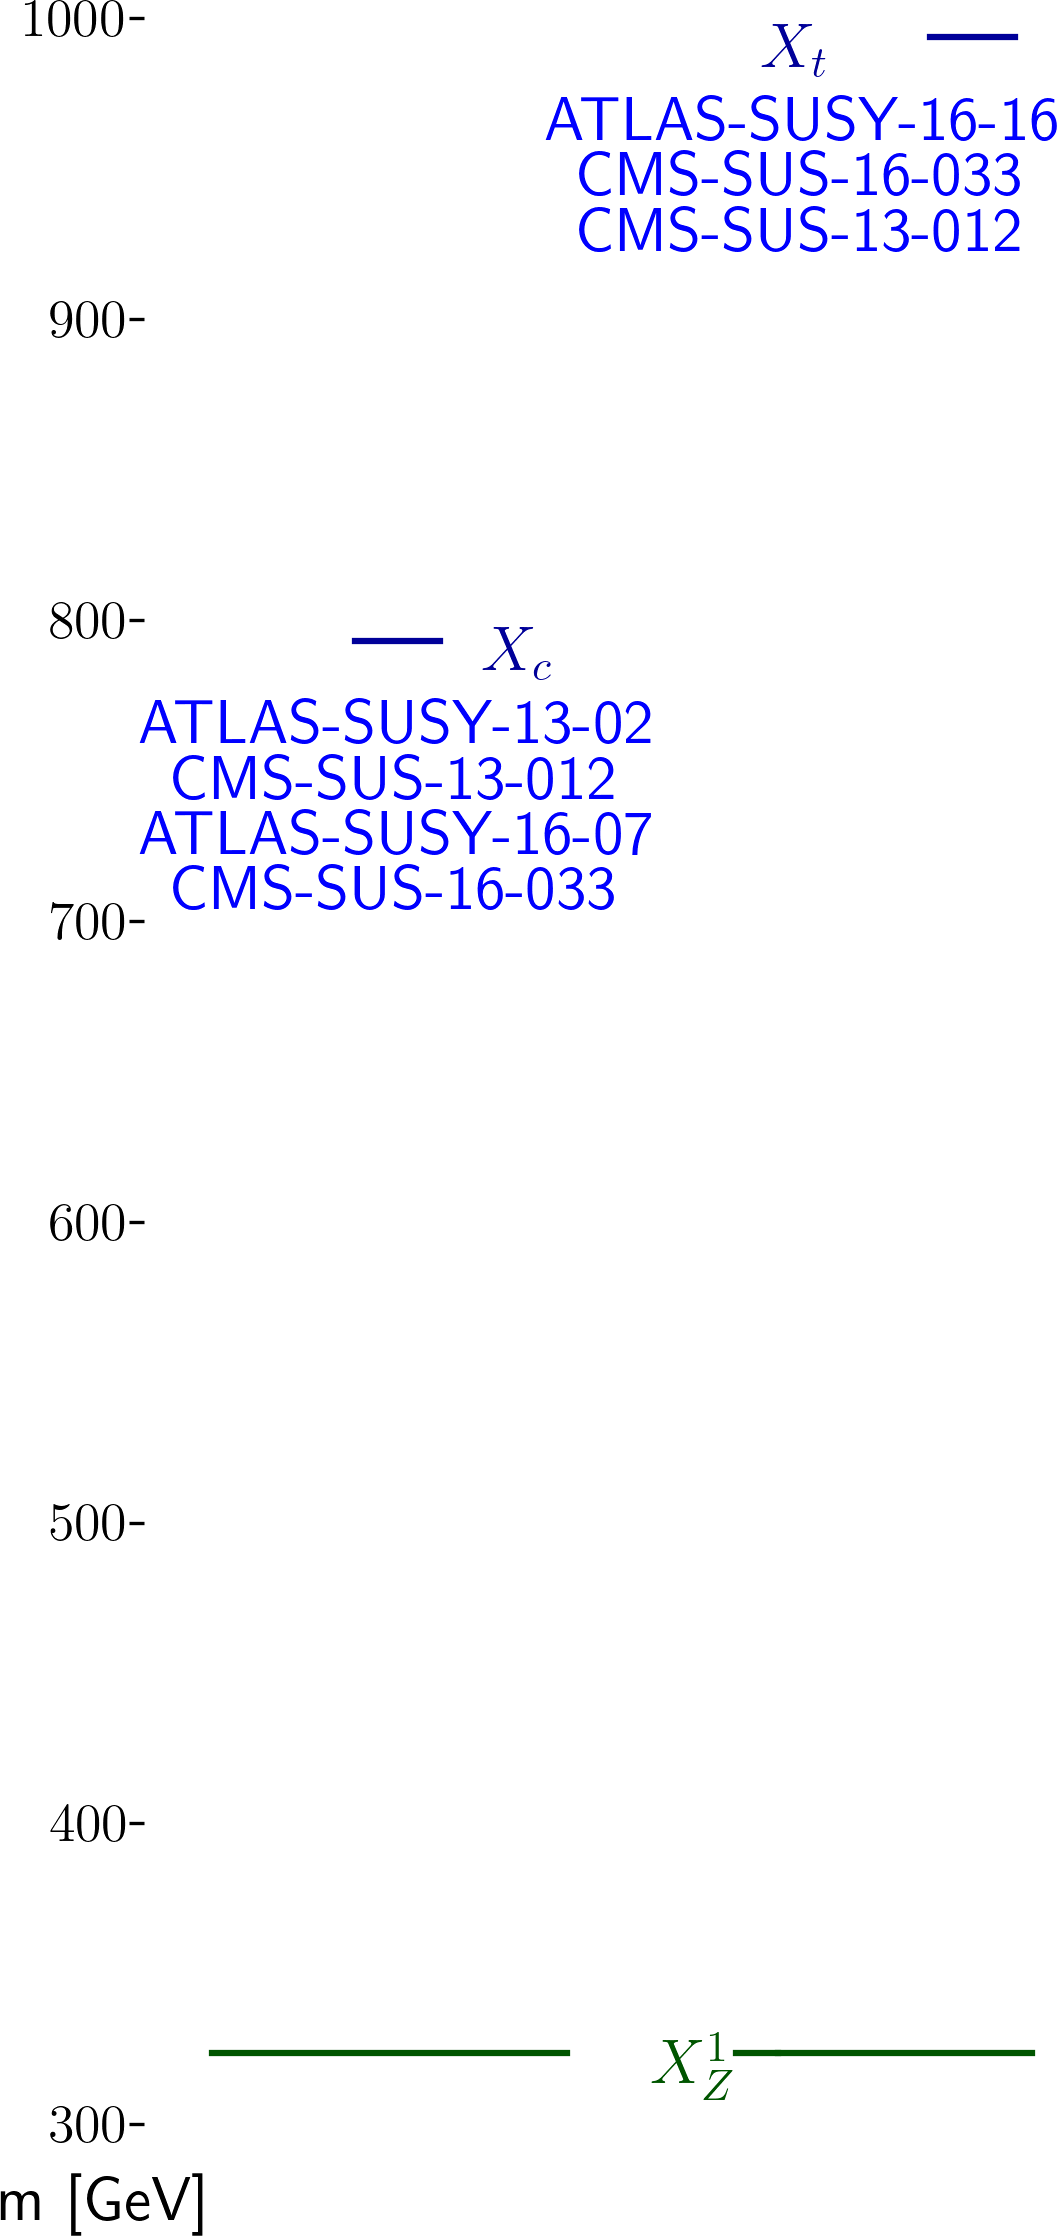
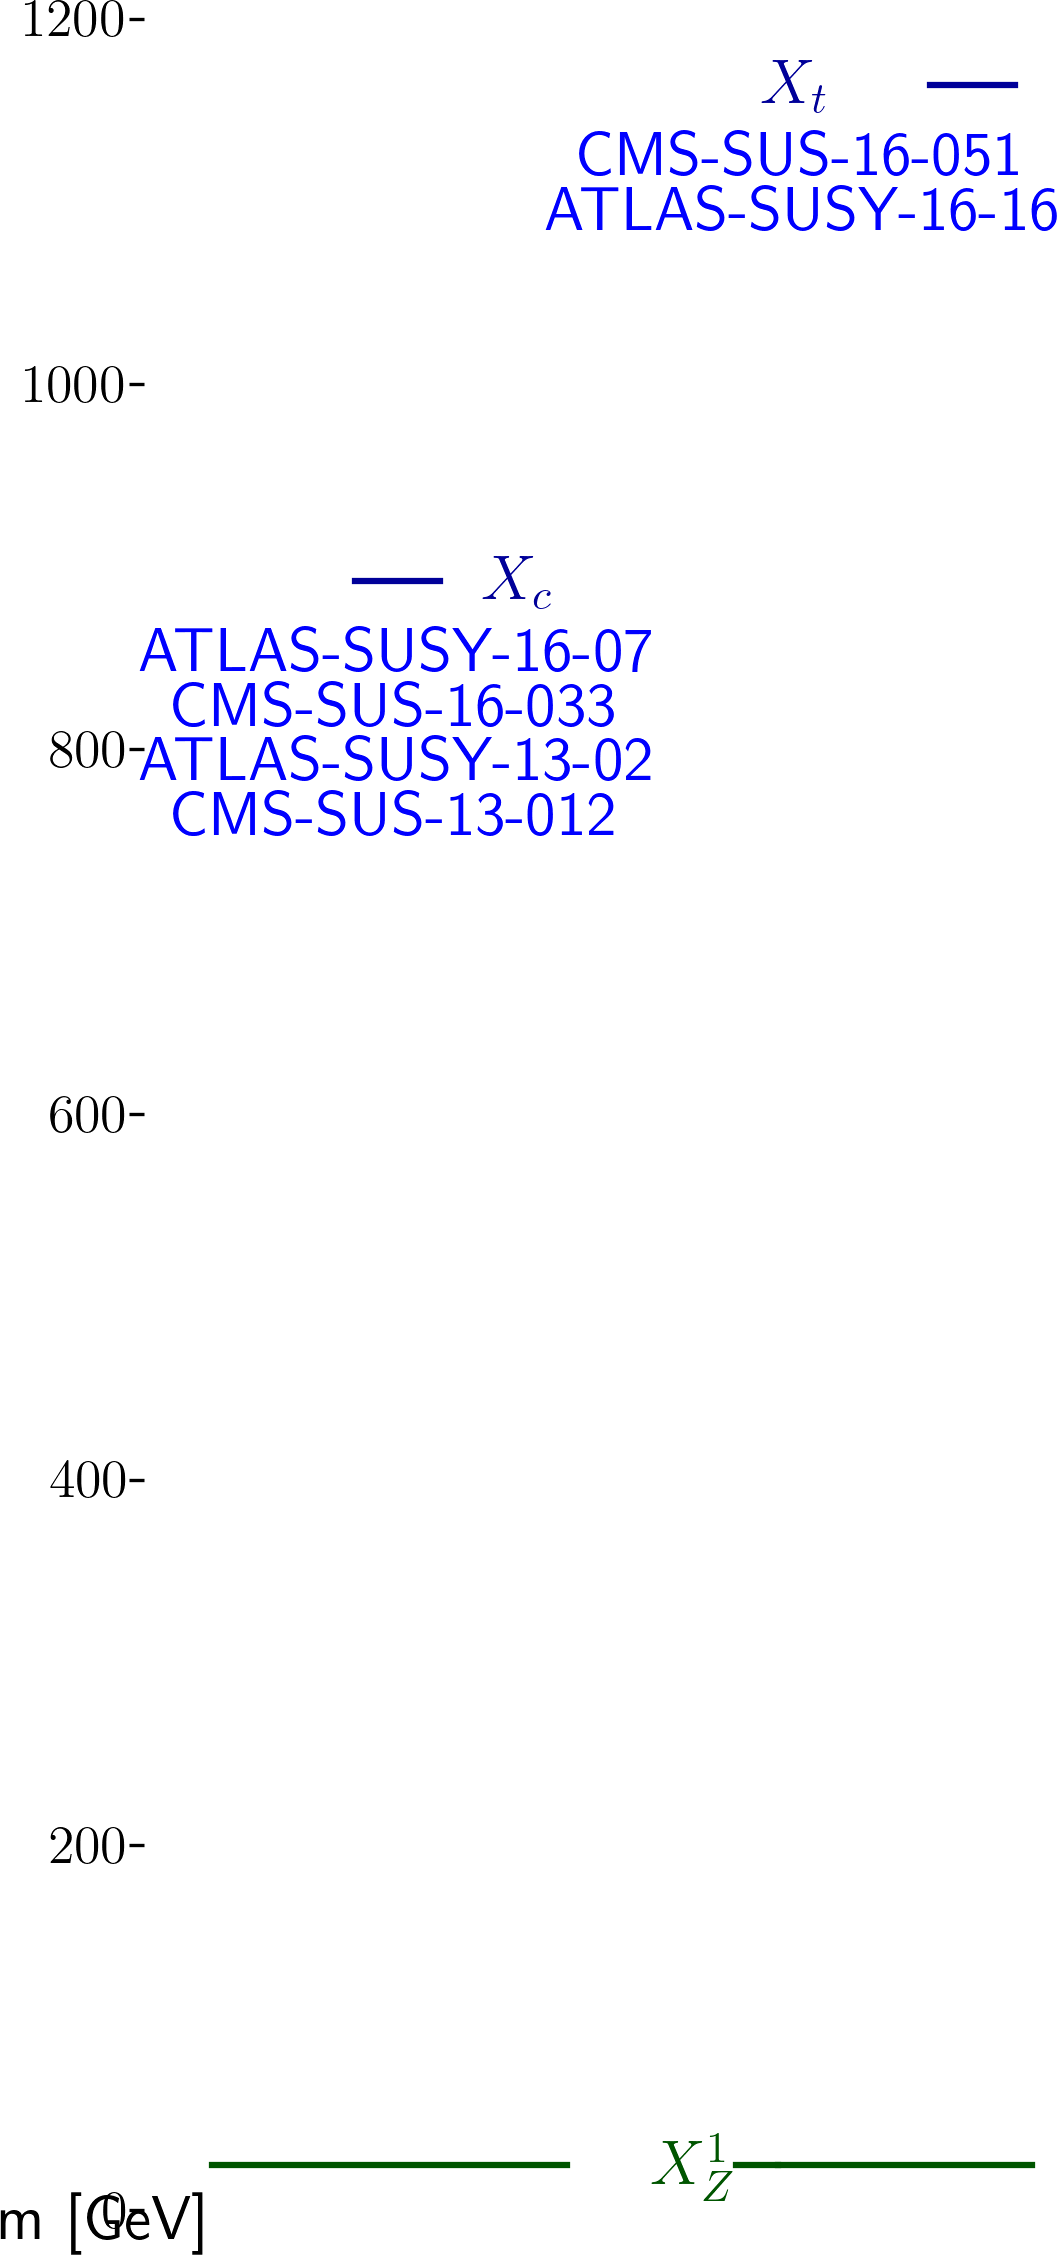
automated update by plotHiscore.py to /scratch-cbe/users/wolfgan.waltenberger/git/smodels.github.io/protomodels

diff --git a/protomodels/2020_PioneerStudy/closure_frozen9/index.html b/protomodels/2020_PioneerStudy/closure_frozen9/index.html
@@ -1,30 +1,31 @@
 <html>
 <body>
 <center>
-<table><td><h1>Current best protomodel: <i>K</i>=4.20</h1><td><img height=60px src=https://smodels.github.io/pics/banner.png></table>
+<table><td><h1>Current best protomodel: <i>K</i>=8.16</h1><td><img height=60px src=https://smodels.github.io/pics/banner.png></table>
 </center>
-<b><a href=./hiscore.slha>ProtoModel</a> <a href=./pmodel.py>(dict)</a> produced with <a href=https://smodels.github.io/docs/Validation124doublefrozen9>database v1.2.4doublefrozen9</a>, combination strategy <a href=./matrix_aggressive.png>aggressive</a> in walker 40 step 790.</b> <i>K</i> plots for: <a href=./M1000022.png?15053150>X<sub>Z</sub><sup>1</sup></a>, <a href=./M1000006.png?15053150>X<sub>t</sub></a>, <a href=./M1000004.png?15053150>X<sub>c</sub></a>. HPD plots for: <a href=./llhd1000006.png?15053150>X<sub>t</sub></a>, <a href=./llhd1000004.png?15053150>X<sub>c</sub></a>. SSM plots for: <a href=./ssm_-1000006_1000006.png?15053150>(x&#772;<sub>t</sub>,X<sub>t</sub>)</a><br>
+<b><a href=./hiscore.slha>ProtoModel</a> <a href=./pmodel.py>(dict)</a> produced with <a href=https://smodels.github.io/docs/Validation124frozen9>database v1.2.4frozen9</a>, combination strategy <a href=./matrix_aggressive.png>aggressive</a> in walker 28 step 999.</b> <i>K</i> plots for: <a href=./M1000022.png?15309304>X<sub>Z</sub><sup>1</sup></a>, <a href=./M1000006.png?15309304>X<sub>t</sub></a>, <a href=./M1000004.png?15309304>X<sub>c</sub></a>. HPD plots for: <a href=./llhd1000006.png?15309304>X<sub>t</sub></a>, <a href=./llhd1000004.png?15309304>X<sub>c</sub></a>. SSM plots for: <a href=./ssm_-1000006_1000006.png?15309304>(x&#772;<sub>t</sub>,X<sub>t</sub>)</a><br>
 <table width=80%>
 <tr><td>
-<br><b>28 predictions available. Highest r values are:</b><br><ul>
-<li><a href=http://cms-results.web.cern.ch/cms-results/public-results/publications/SUS-19-006/index.html>CMS-SUS-19-006</a>:T2 r=1.30, r<sub>exp</sub>=1.30<br>
-<li><a href=http://cms-results.web.cern.ch/cms-results/public-results/publications/SUS-16-049/index.html>CMS-SUS-16-049</a>:T2tt r=1.21, r<sub>exp</sub>=1.21<br>
-<li><a href=http://cms-results.web.cern.ch/cms-results/public-results/publications/SUS-16-050/index.html>CMS-SUS-16-050</a>:T2tt r=1.12, r<sub>exp</sub>=1.12<br>
-<li><a href=http://cms-results.web.cern.ch/cms-results/public-results/publications/SUS-19-006/index.html>CMS-SUS-19-006</a>:T2tt r=1.11, r<sub>exp</sub>=1.11<br>
-<li><a href=http://cms-results.web.cern.ch/cms-results/public-results/publications/SUS-16-033/index.html>CMS-SUS-16-033</a>:T2 r=0.98, r<sub>exp</sub>=0.98<br>
+<br><b>25 predictions available. Highest r values are:</b><br><ul>
+<li><a href=https://atlas.web.cern.ch/Atlas/GROUPS/PHYSICS/PAPERS/SUSY-2016-26/>ATLAS-SUSY-2016-26</a>:T2cc r=0.88, r<sub>exp</sub>=N/A<br>
+<li><a href=https://atlas.web.cern.ch/Atlas/GROUPS/PHYSICS/PAPERS/SUSY-2016-07/>ATLAS-SUSY-2016-07</a>:T2 r=0.61, r<sub>exp</sub>=N/A<br>
+<li><a href=http://cms-results.web.cern.ch/cms-results/public-results/publications/SUS-19-006/index.html>CMS-SUS-19-006</a>:T2tt r=0.56, r<sub>exp</sub>=N/A<br>
+<li><a href=http://cms-results.web.cern.ch/cms-results/public-results/publications/SUS-16-050/index.html>CMS-SUS-16-050</a>:T2tt r=0.51, r<sub>exp</sub>=N/A<br>
+<li><a href=http://cms-results.web.cern.ch/cms-results/public-results/publications/SUS-16-049/index.html>CMS-SUS-16-049</a>:T2tt r=0.50, r<sub>exp</sub>=N/A<br>
 </ul>
 <td><br><b>K values without analyses: (contribution)</b><br>
 <ul>
-<li> <a href=https://twiki.cern.ch/twiki/bin/view/CMSPublic/PhysicsResultsSUS13012>CMS-SUS-13-012</a>: 4.84 (-13%)
-<li> <a href=https://atlas.web.cern.ch/Atlas/GROUPS/PHYSICS/PAPERS/SUSY-2013-02/>ATLAS-SUSY-2013-02</a>: 4.56 (-7%)
-<li> <a href=http://cms-results.web.cern.ch/cms-results/public-results/publications/SUS-16-033/index.html>CMS-SUS-16-033</a>: 3.96 (5%)
-<li> <a href=https://atlas.web.cern.ch/Atlas/GROUPS/PHYSICS/PAPERS/SUSY-2016-16/>ATLAS-SUSY-2016-16</a>: 2.61 (33%)
-<li> <a href=https://atlas.web.cern.ch/Atlas/GROUPS/PHYSICS/PAPERS/SUSY-2016-07/>ATLAS-SUSY-2016-07</a>: 0.17 (83%)
-<td><img width=600px src=./texdoc.png?1608053150>
-<br><font size=-1>Last updated: Tue Dec 15 18:25:50 2020</font>
+<li> <a href=http://cms-results.web.cern.ch/cms-results/public-results/publications/SUS-16-033/index.html>CMS-SUS-16-033</a>: 0.40 (15%)
+<li> <a href=https://twiki.cern.ch/twiki/bin/view/CMSPublic/PhysicsResultsSUS13012>CMS-SUS-13-012</a>: 0.40 (15%)
+<li> <a href=http://cms-results.web.cern.ch/cms-results/public-results/publications/SUS-16-051/index.html>CMS-SUS-16-051</a>: 0.40 (15%)
+<li> <a href=https://atlas.web.cern.ch/Atlas/GROUPS/PHYSICS/PAPERS/SUSY-2013-02/>ATLAS-SUSY-2013-02</a>: 0.34 (16%)
+<li> <a href=https://atlas.web.cern.ch/Atlas/GROUPS/PHYSICS/PAPERS/SUSY-2016-07/>ATLAS-SUSY-2016-07</a>: -0.79 (18%)
+<li> <a href=https://atlas.web.cern.ch/Atlas/GROUPS/PHYSICS/PAPERS/SUSY-2016-16/>ATLAS-SUSY-2016-16</a>: -2.21 (21%)
+<td><img width=600px src=./texdoc.png?1608309304>
+<br><font size=-1>Last updated: Fri Dec 18 17:35:04 2020</font>
 </table><table style="width:80%">
-<td width=45%><img height=580px src=./ruler.png?1608053150><td width=55%><img height=380px src=./decays.png?1608053150>
-<font size=-3><iframe type="text/html" height="220px" width="100%s" frameborder="0" src="./rawnumbers.html?1608053150"></iframe></font>
+<td width=45%><img height=580px src=./ruler.png?1608309304><td width=55%><img height=380px src=./decays.png?1608309304>
+<font size=-3><iframe type="text/html" height="220px" width="100%s" frameborder="0" src="./rawnumbers.html?1608309304"></iframe></font>
 </table>
 </body>
 </html>

diff --git a/protomodels/2020_PioneerStudy/closure_frozen9/rawnumbers.html b/protomodels/2020_PioneerStudy/closure_frozen9/rawnumbers.html
@@ -1,9 +1,10 @@
 <table>
 <tr><th>Analysis Name</th><th>Type</th><th>Dataset</th><th>Topos</th><th>Observed</th><th>Expected</th><th>Approx &sigma;</th><th>Particles</th><th>Signal</th>
 </tr>
-<tr><td><a href=https://atlas.web.cern.ch/Atlas/GROUPS/PHYSICS/PAPERS/SUSY-2013-02/>ATLAS-SUSY-2013-02</a></td><td>em</td> <td>SR2jm</td><td>T2</td><td>791.45</td><td>760 +/- 50</td><td style="text-align:right">0.6 &sigma;</td><td style="text-align:right">X<sub>c</sub></td><td style="text-align:right">31.45</td></tr>
-<tr><td><a href=https://atlas.web.cern.ch/Atlas/GROUPS/PHYSICS/PAPERS/SUSY-2016-07/>ATLAS-SUSY-2016-07</a></td><td>em</td> <td>2j_Meff_1200</td><td>T2</td><td>614.32</td><td>526 +/- 31</td><td style="text-align:right">2.3 &sigma;</td><td style="text-align:right">X<sub>c</sub></td><td style="text-align:right">88.32</td></tr>
+<tr><td><a href=https://atlas.web.cern.ch/Atlas/GROUPS/PHYSICS/PAPERS/SUSY-2013-02/>ATLAS-SUSY-2013-02</a></td><td>em</td> <td>SR4jt</td><td>T2</td><td>2.73</td><td>2.5 +/- 1</td><td style="text-align:right">0.1 &sigma;</td><td style="text-align:right">X<sub>c</sub></td><td style="text-align:right">0.23</td></tr>
+<tr><td><a href=https://atlas.web.cern.ch/Atlas/GROUPS/PHYSICS/PAPERS/SUSY-2016-07/>ATLAS-SUSY-2016-07</a></td><td>em</td> <td>2j_Meff_1200</td><td>T2</td><td>570.16</td><td>526 +/- 31</td><td style="text-align:right">1.1 &sigma;</td><td style="text-align:right">X<sub>c</sub></td><td style="text-align:right">44.16</td></tr>
 <tr><td><a href=https://atlas.web.cern.ch/Atlas/GROUPS/PHYSICS/PAPERS/SUSY-2016-16/>ATLAS-SUSY-2016-16</a></td><td>em</td> <td>tN_high</td><td>T2tt</td><td>7.73</td><td>3.8 +/- 1</td><td style="text-align:right">1.8 &sigma;</td><td style="text-align:right">X<sub>t</sub></td><td style="text-align:right">3.93</td></tr>
-<tr><td><a href=https://twiki.cern.ch/twiki/bin/view/CMSPublic/PhysicsResultsSUS13012>CMS-SUS-13-012</a></td><td>em</td> <td>8NJetinf_500HT8 ...</td><td>T2, T2tt</td><td>4.80</td><td>4.8 +/- 2.3</td><td style="text-align:right">0.0 &sigma;</td><td style="text-align:right">X<sub>c</sub>, X<sub>t</sub></td><td style="text-align:right">0.00</td></tr>
-<tr><td><a href=http://cms-results.web.cern.ch/cms-results/public-results/publications/SUS-16-033/index.html>CMS-SUS-16-033</a></td><td>em</td> <td>SR1_Njet2_Nb0_H ...</td><td>T2, T2tt</td><td>8000.72</td><td>7584 +/- 433</td><td style="text-align:right">0.9 &sigma;</td><td style="text-align:right">X<sub>c</sub>, X<sub>t</sub></td><td style="text-align:right">416.72</td></tr>
+<tr><td><a href=https://twiki.cern.ch/twiki/bin/view/CMSPublic/PhysicsResultsSUS13012>CMS-SUS-13-012</a></td><td>ul</td> <td>-</td><td>T2</td><td> 10.7 fb </td><td> 8.0 fb</td><td style="text-align:right">0.7 &sigma;</td><td style="text-align:right">X<sub>c</sub></td><td style="text-align:right">2.66 fb</td></tr>
+<tr><td><a href=http://cms-results.web.cern.ch/cms-results/public-results/publications/SUS-16-033/index.html>CMS-SUS-16-033</a></td><td>ul</td> <td>-</td><td>T2</td><td> 36.8 fb </td><td> 12.9 fb</td><td style="text-align:right">3.7 &sigma;</td><td style="text-align:right">X<sub>c</sub></td><td style="text-align:right">23.95 fb</td></tr>
+<tr><td><a href=http://cms-results.web.cern.ch/cms-results/public-results/publications/SUS-16-051/index.html>CMS-SUS-16-051</a></td><td>ul</td> <td>-</td><td>T2tt</td><td> 7.1 fb </td><td> 4.5 fb</td><td style="text-align:right">1.2 &sigma;</td><td style="text-align:right">X<sub>t</sub></td><td style="text-align:right">2.62 fb</td></tr>
 </table>

diff --git a/protomodels/2020_PioneerStudy/closure_frozen9/pmodel.py b/protomodels/2020_PioneerStudy/closure_frozen9/pmodel.py
@@ -1,1 +1,1 @@
-{'masses': {1000022: 313.831, 1000006: 983.726, 1000004: 783.227}, 'ssmultipliers': {(1000022, 1000022): 0.0, (1000006, 1000006): 0.751, (-1000006, 1000006): 0.751, (-1000006, -1000006): 0.751, (1000006, 1000022): 1.358, (-1000006, 1000022): 1.358, (1000004, 1000004): 0.992, (-1000004, 1000004): 0.992, (-1000004, -1000004): 0.992, (1000004, 1000022): 0.992, (-1000004, 1000022): 0.992, (1000004, 1000006): 0.992, (-1000004, 1000006): 0.992, (-1000006, 1000004): 0.992, (-1000006, -1000004): 0.992}, 'decays': {1000022: {}, 1000006: {(1000022, 6): 1.0}, 1000004: {(1000022, 4): 1.0}}, 'timestamp': 'Tue Dec 15 18:25:40 2020', 'Z': 2.784, 'K': 4.202, 'walkerid': 40, 'step': 790, 'codever': '1.0', 'dbver': '1.2.4doublefrozen9'}
+{'masses': {1000022: 14.571, 1000006: 1153.573, 1000004: 882.115}, 'ssmultipliers': {(1000022, 1000022): 0.0, (1000006, 1000006): 1.408, (-1000006, 1000006): 1.284, (-1000006, -1000006): 1.348, (1000006, 1000022): 1.491, (-1000006, 1000022): 1.491, (1000004, 1000004): 1.039, (-1000004, 1000004): 1.039, (-1000004, -1000004): 1.039, (1000004, 1000022): 1.039, (-1000004, 1000022): 1.039, (1000004, 1000006): 1.039, (-1000004, 1000006): 1.039, (-1000006, 1000004): 1.039, (-1000006, -1000004): 1.039}, 'decays': {1000022: {}, 1000006: {(1000022, 6): 1.0}, 1000004: {(1000022, 4): 1.0}}, 'timestamp': 'Fri Dec 18 17:34:54 2020', 'Z': 3.422, 'K': 8.159, 'walkerid': 28, 'step': 999, 'codever': '1.0', 'dbver': '1.2.4frozen9'}
